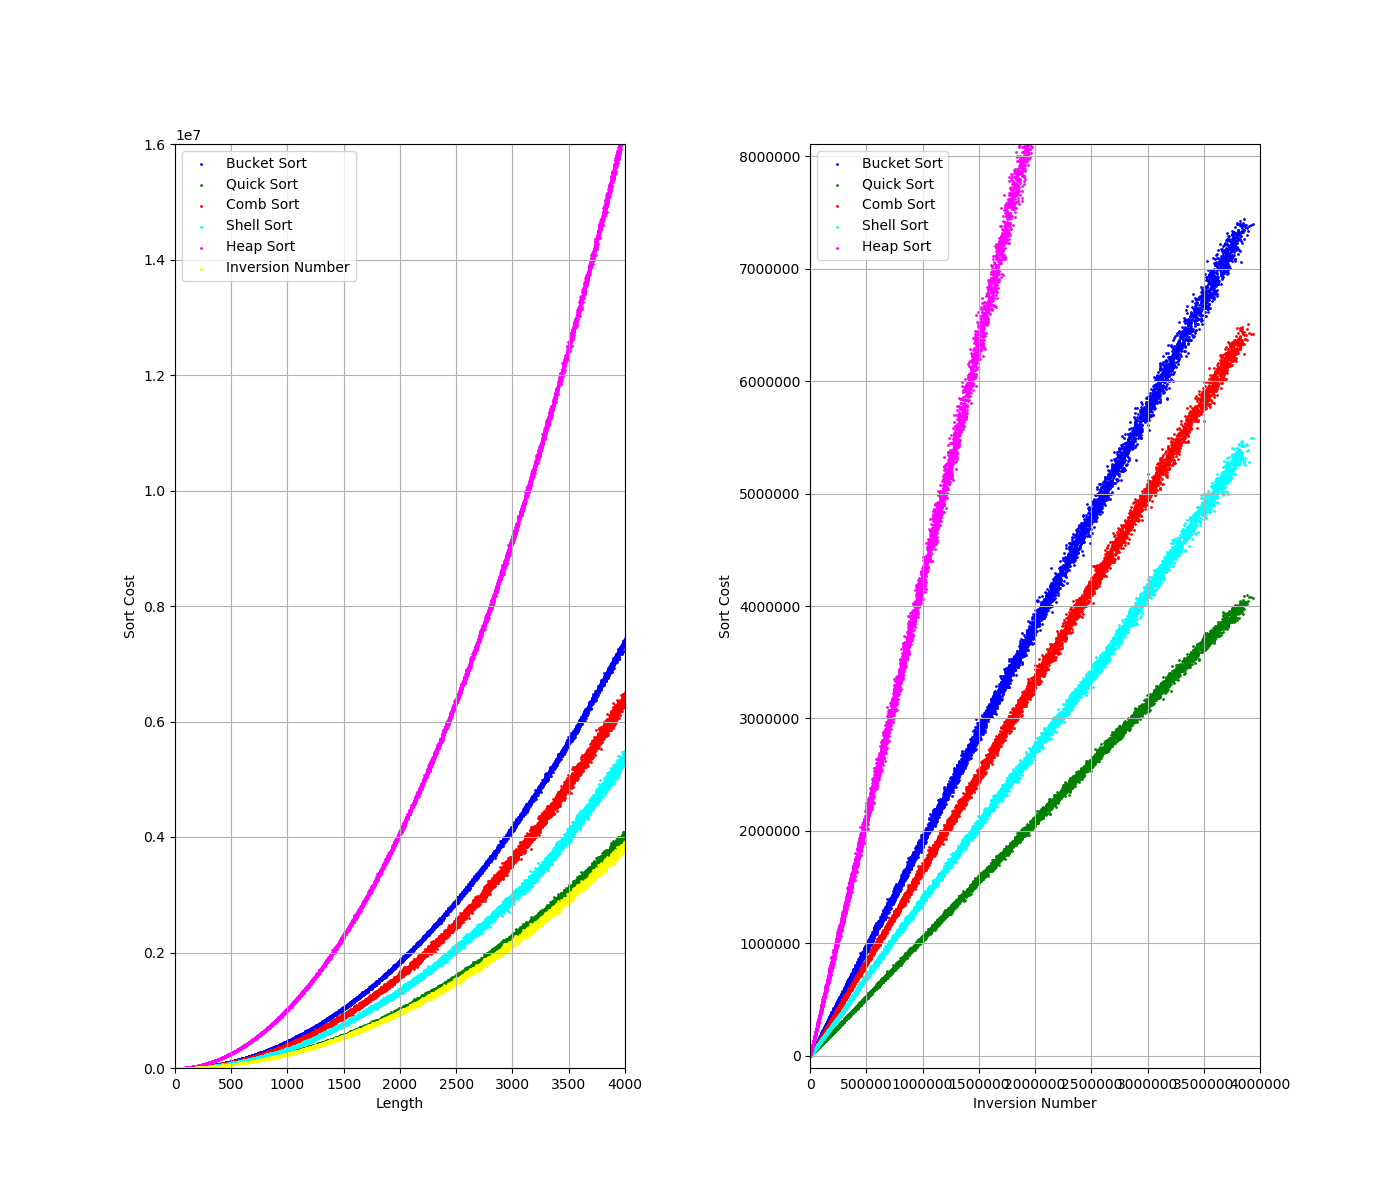
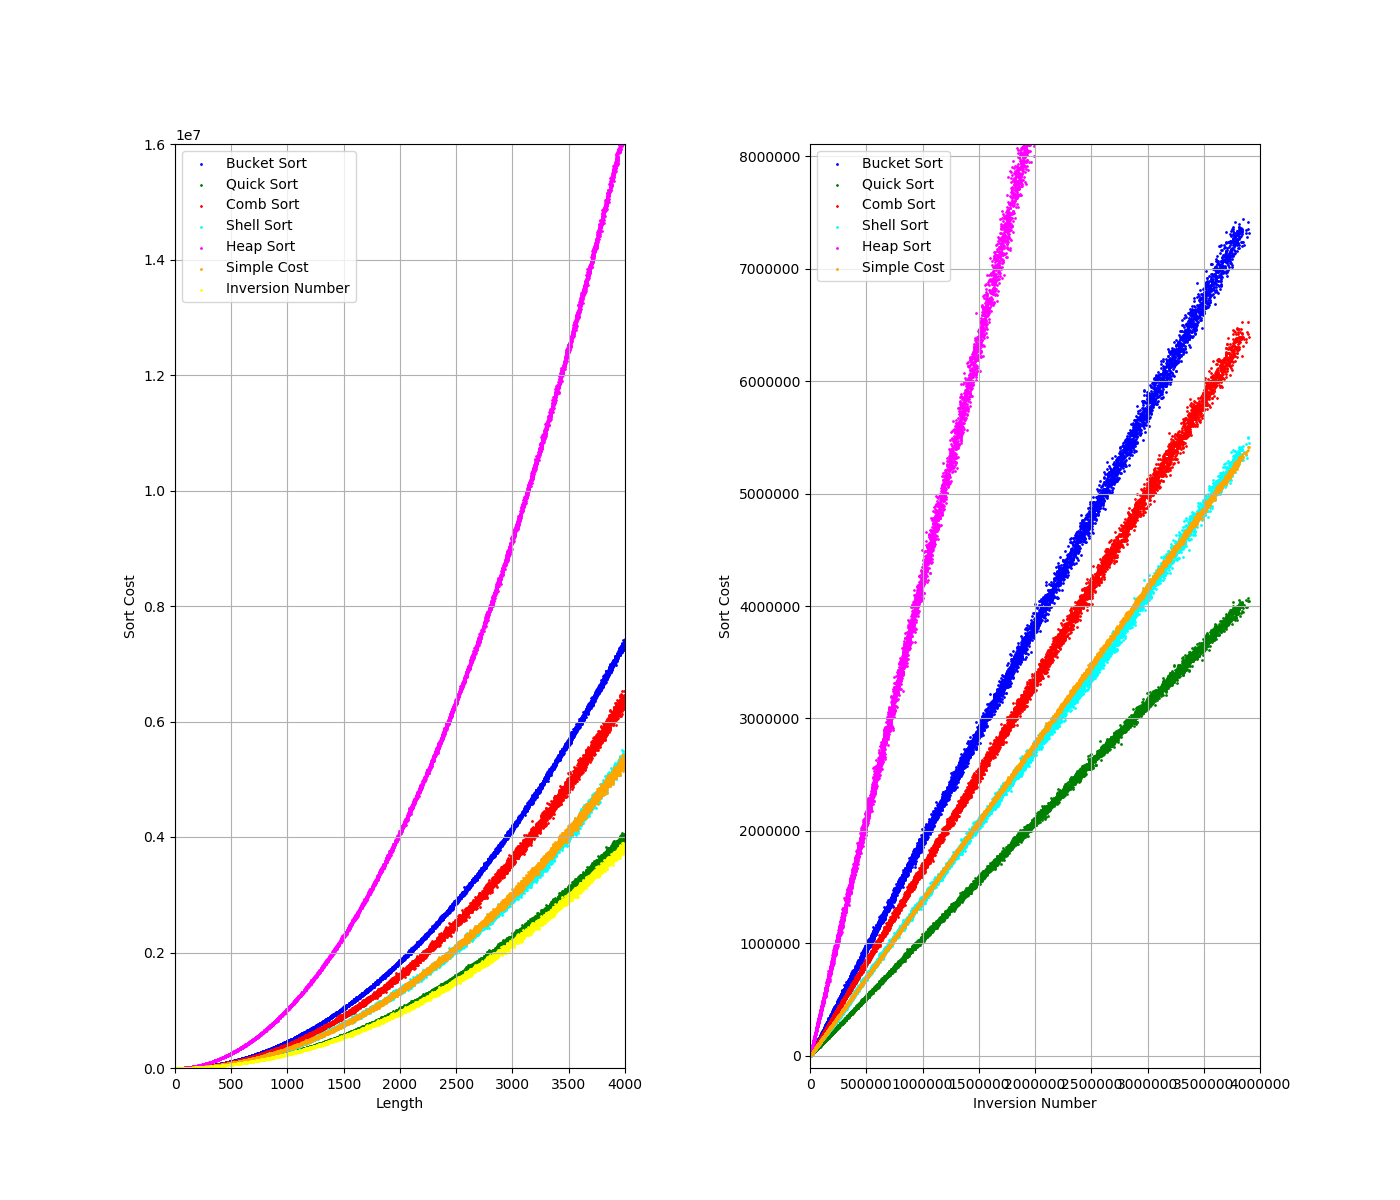
simple cost

diff --git a/sort_test/Mitarushi_compare_const_n.py b/sort_test/Mitarushi_compare_const_n.py
@@ -3,8 +3,9 @@ from random import randint
 import matplotlib.pyplot as plt
 from tqdm import trange
 
-MAX_LENGTH = 4000
-MIN_LENGTH = 10
+LENGTH = 4000
+FLIP_MAX = 4000
+FLIP_MIN = 3
 TRY = 10000
 sorts = [("Bucket Sort", swap_sort, "blue"),
          ("Quick Sort", quick_sort, "green"),
@@ -13,7 +14,6 @@ sorts = [("Bucket Sort", swap_sort, "blue"),
          ("Heap Sort", heap_sort, "magenta"),
          ("Simple Cost", simple_sort_cost, "orange")]
 reverse_imfo = ("Inversion Number", get_reverse_count, "yellow")
-half_sort = True
 
 
 if __name__ == "__main__":
@@ -22,10 +22,9 @@ if __name__ == "__main__":
     result_reverse = []
 
     for _ in trange(TRY):
-        n = randint(MIN_LENGTH, MAX_LENGTH)
+        n = LENGTH
         s = generate_random(n)
-        if half_sort:
-            half_sorted(s, max(2, n//2))
+        half_sorted(s, randint(FLIP_MIN, FLIP_MAX))
 
         result_n.append(n)
         result_reverse.append(get_reverse_count(s))
@@ -37,13 +36,13 @@ if __name__ == "__main__":
     ax1 = plt.subplot2grid((2, 7), (0, 0), 2, 3)
     ax2 = plt.subplot2grid((2, 7), (0, 4), 2, 3)
 
-    ax1.set_xlabel("Length")
+    ax1.set_xlabel("Simple Cost")
     ax1.set_ylabel("Sort Cost")
-    ax1.set_xlim(0, MAX_LENGTH)
+    ax1.set_xlim(0, 4000000)
     ax1.set_ylim(0, 16000000)
     ax1.grid()
-    for i, (name, _, color) in enumerate(sorts):
-        ax1.scatter(result_n, result_sort[i], label=name, c=color, s=1)
+    for i, (name, _, color) in enumerate(sorts[:-1]):
+        ax1.scatter(result_sort[-1], result_sort[i], label=name, c=color, s=1)
     ax1.scatter(result_n, result_reverse,
                 label=reverse_imfo[0], c=reverse_imfo[2], s=1)
     ax1.legend()
@@ -58,7 +57,4 @@ if __name__ == "__main__":
         ax2.scatter(result_reverse, result_sort[i], label=name, c=color, s=1)
     ax2.legend()
 
-    if half_sort:
-        plt.savefig("sort_test\\result_all_half.png")
-    else:
-        plt.savefig("sort_test\\result_all.png")
+    plt.savefig("sort_test\\result_const_n.png")

diff --git a/sort_test/Mitarushi_sort_reverse.py b/sort_test/Mitarushi_sort_reverse.py
@@ -129,6 +129,32 @@ def heap_sort(s):
     return cost
 
 
+def half_sorted(s, k):
+    h = len(s) * 10 // 13
+    while True:
+        for i in range(len(s) - h):
+            if s[i] > s[i + h]:
+                s[i], s[i + h] = s[i + h], s[i]
+        if h <= k:
+            return
+        h = max(1, h * 10 // 13)
+
+
+def simple_sort_cost(s):
+    count_char = [0] * 26
+    for i in s:
+        count_char[i] += 1
+
+    char_from = [0]
+    for i in count_char:
+        char_from.append(char_from[-1] + i)
+
+    cost = 0
+    for ind, i in enumerate(s):
+        cost += abs(ind - char_from[i])
+    return cost
+
+
 class BIT:
     def __init__(self, a, func=int.__add__, one=0):
         self.n = len(a)
